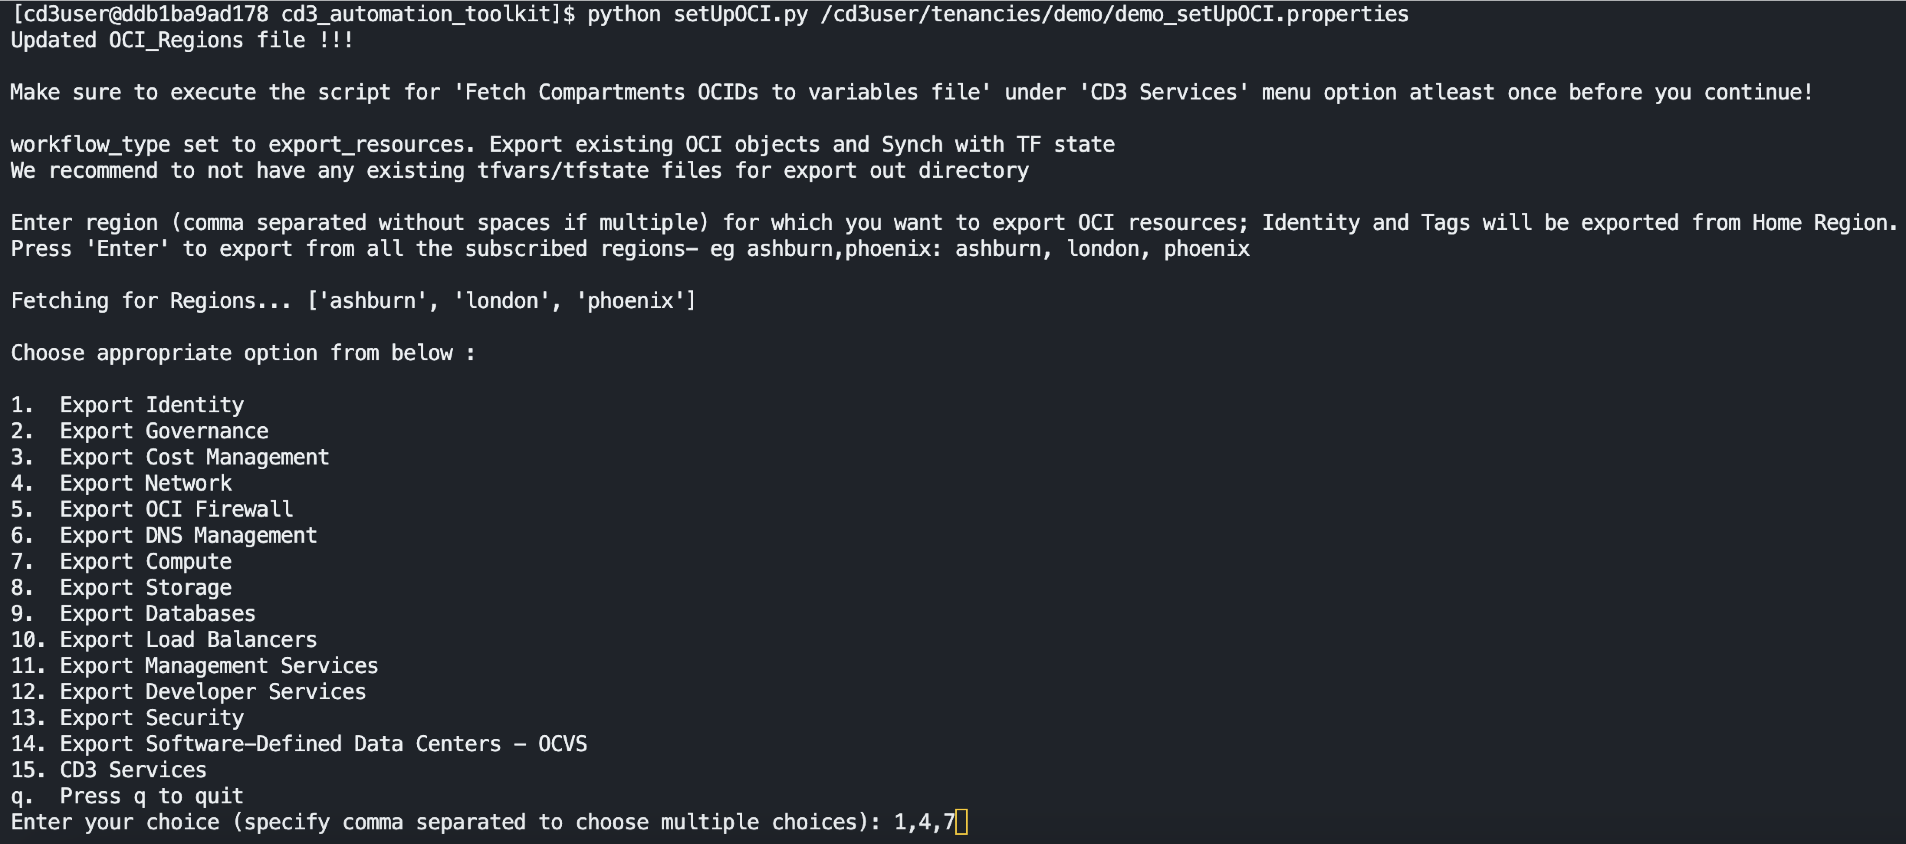
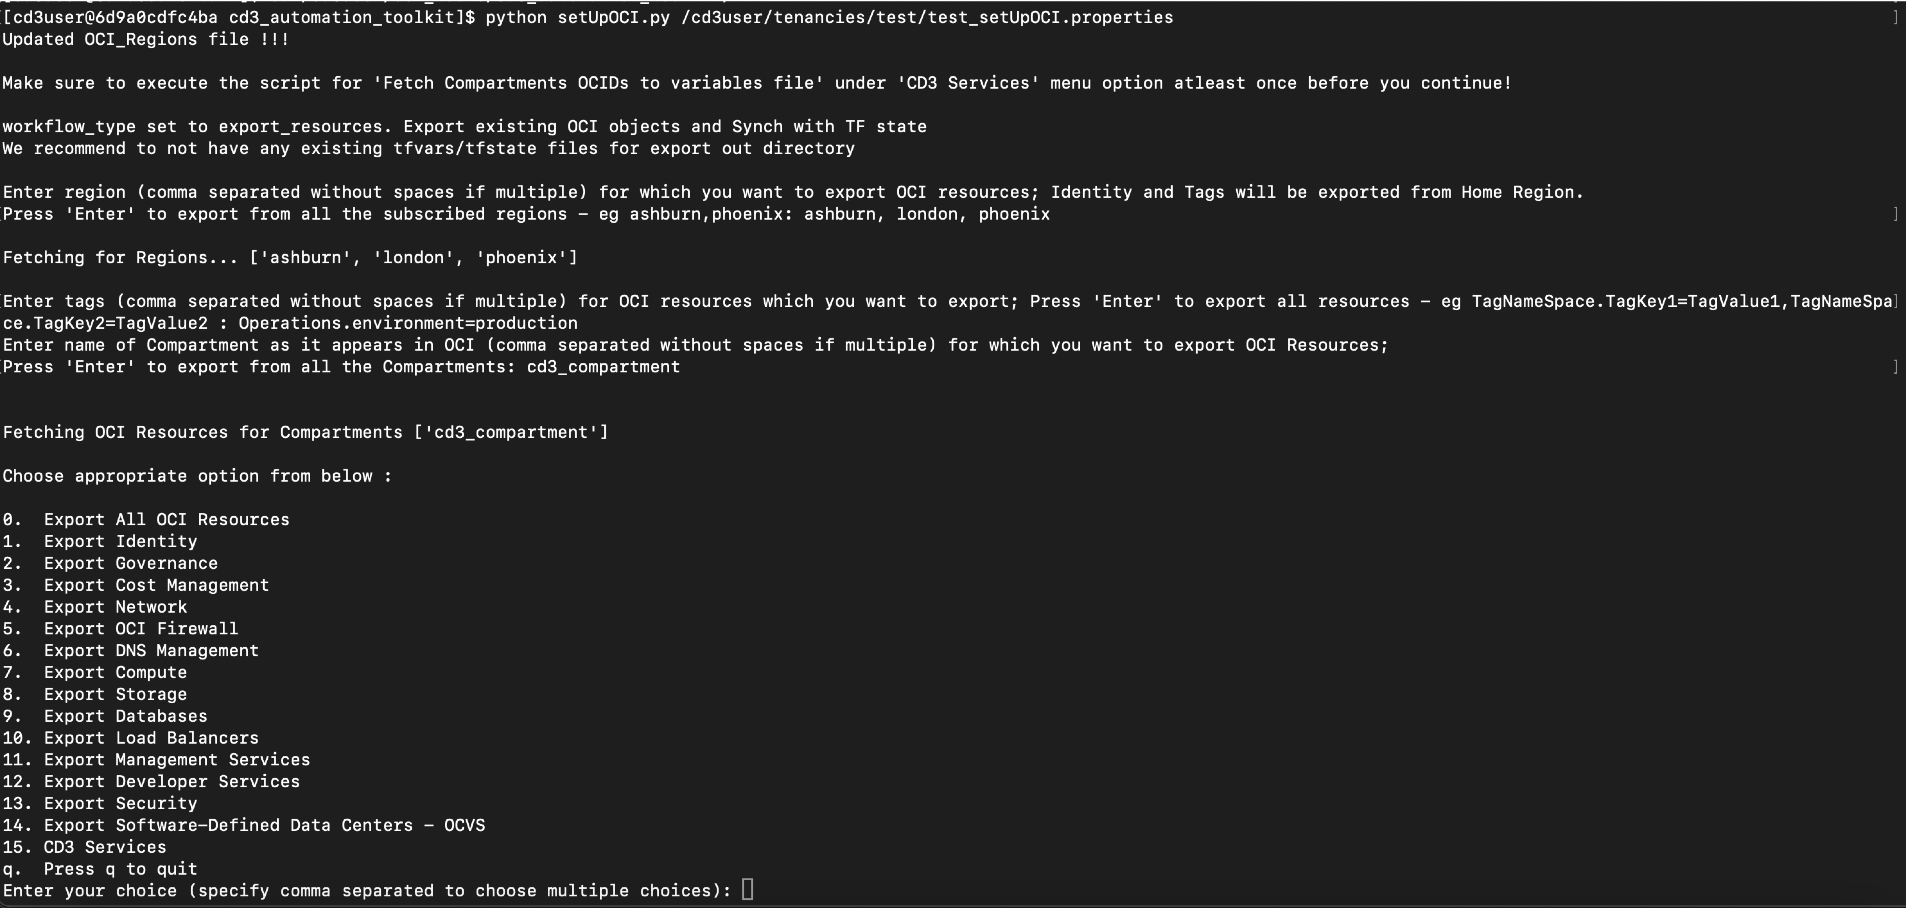
27/03

Changed region(s): [[0.0, 0.0, 1.0, 0.4313], [0.0, 0.4621, 0.5262, 1.0], [0.9906, 0.0, 1.0, 0.0308]]

diff --git a/docs/cd3-overview.md b/docs/cd3-overview.md
@@ -2,7 +2,7 @@
 ---
 
 
-CD3 stands for **Cloud Deployment Design Deliverable**. The CD3 Automation toolkit enables you to effortlessly Build, Export and Manage OCI (Oracle Cloud Infrastruture) resources by converting Excel templates to fully functional Terraform modules within minutes ⚡⚡ . 
+CD3 stands for **Cloud Deployment Design Deliverable**. The CD3 Automation toolkit enables you to effortlessly Build, Export and Manage OCI (Oracle Cloud Infrastructure) resources by converting Excel templates to fully functional Terraform modules within minutes ⚡⚡ . 
 
 Additionally, the toolkit also supports seamless resource management using OCI DevOps GIT service and Jenkins Pipelines.
 
@@ -10,14 +10,13 @@ Additionally, the toolkit also supports seamless resource management using OCI D
 
 <br>
 
-<iframe width="100%" height="500" src="https://www.youtube.com/embed/watch?v=TSNu0pUHYsE&list=PLPIzp-E1msrbJ3WawXVhzimQnLw5iafcp&index=1">
-</iframe>
+<iframe width="800" height="500" src="https://www.youtube.com/embed/Mb2N85GY0io" frameborder="0" allowfullscreen></iframe>
 
 <br>
 <br>
 
 
-###<u> **CD3 Toolkit Process</u>**
+### <u> **CD3 Toolkit Process</u>**
 
 
 <img width="2000" height="1000" alt="CD3 Toolkit Process" src="../images/CD3-Process.png">

diff --git a/docs/nongreenfield-cli.md b/docs/nongreenfield-cli.md
@@ -66,12 +66,12 @@ python setUpOCI.py /cd3user/tenancies/<prefix>/<prefix>_setUpOCI.properties
 
     Execute **"Fetch Compartments OCIDs to variables file"** from **CD3 Services** in setUpOCI menu after creating Compartments. This step is required every time a compartment is created via the toolkit or via the OCI console.
 
-<br>⬇ After fetching the compartment details, the toolkit will display the menu options as shown below:
+<br>⬇ After fetching the compartment details, users have options to export their resources only from specific regions, compartments, and resources with specific Tags if required. The toolkit will display the menu options as shown below:
 
 
 !!! example  "Example Execution"
 
-      <img src = "../images/demo_setupocimenu_cli_export.png" width=90% height=90%>
+      <img src = "../images/demo_setupocimenu_cli_export.png" width=100% height=100%>
 
 
 Choose the resources by specifying a single option (for choosing one of these resources) or comma-separated values (to choose multiple resources) as shown in the sample screenshot above.

diff --git a/docs/nongreenfield-jenkins.md b/docs/nongreenfield-jenkins.md
@@ -38,7 +38,7 @@ Click on the setupoci pipeline and select **Build with Parameters** from left si
 <br>Specify region and compartment from where the data has to be exported. Multiple options can be selected to export from multiple regions/compartments. If resources have to be exported from all regions/compartments, do not select any option from the dropdown. 
 <br>It also asks for service specific filters like display name patterns for compute. Leave empty if no filter is needed.
 
-<img width=500 height=500 alt="Screenshot 2024-01-17 at 7 10 56 PM" src="../images/jenkins_filters.jpg"><br>
+<img width=1000 height=1000 alt="Screenshot 2024-01-17 at 7 10 56 PM" src="../images/jenkins_filters.jpg"><br>
 <br>Click on **Build** at the bottom.<br>
 
 
